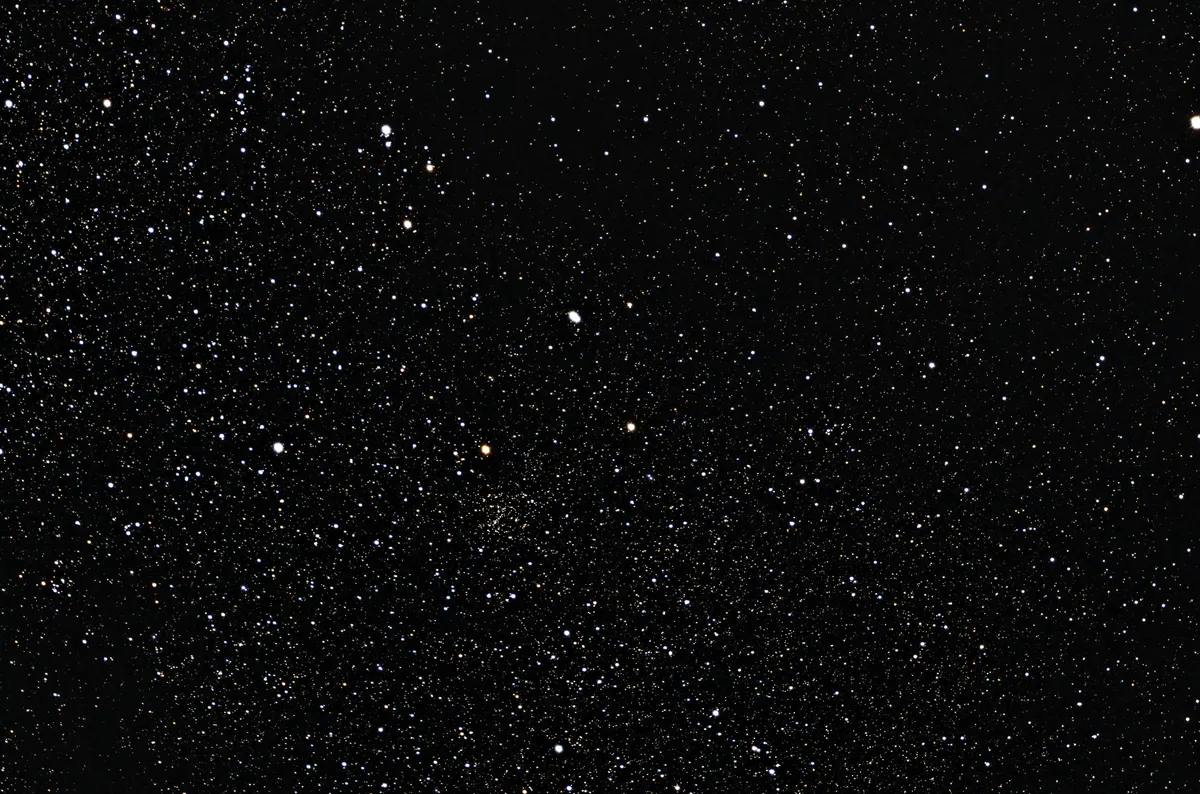
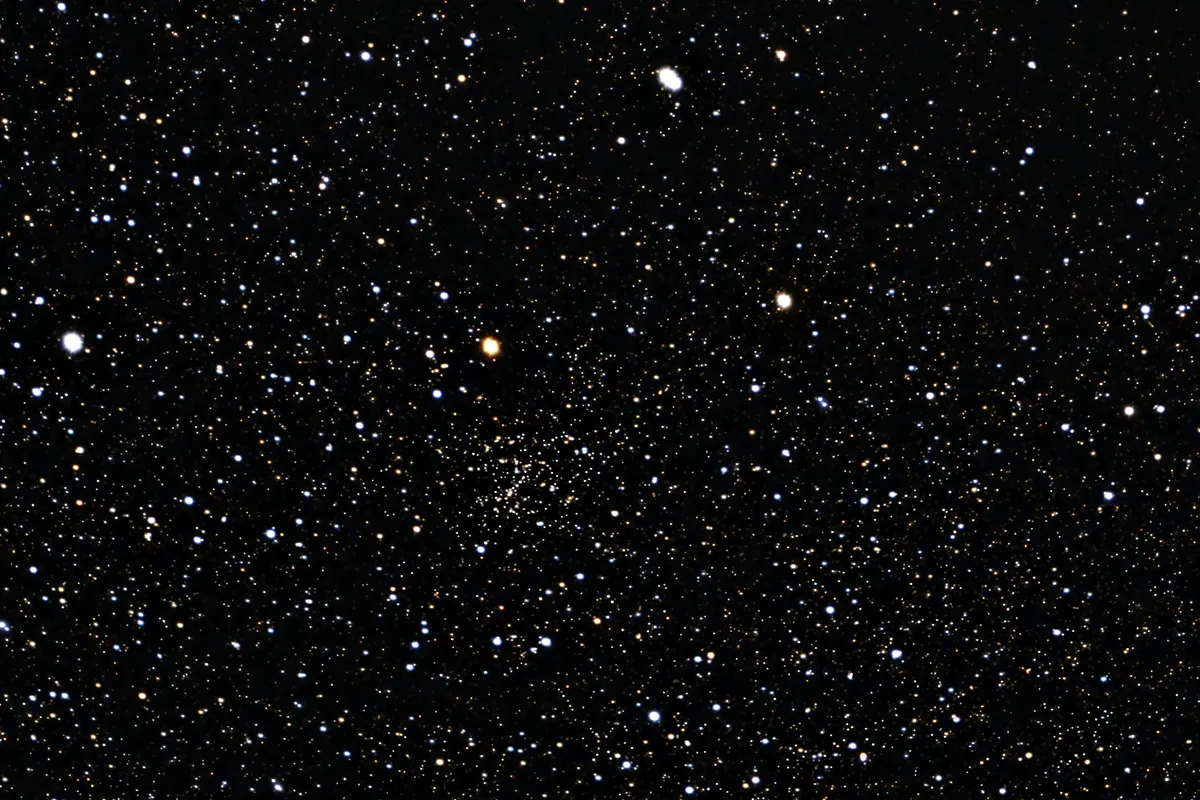
sample-sessions: crop the Whirlpool and Sagittarius pictures (cards say so)
Both are small or sparse in the wide frame at card size. The pictures are crops of the same default
preview at its own resolution; the Zenodo preview files stay the full frame.

diff --git a/docs/sample-sessions.html b/docs/sample-sessions.html
@@ -776,9 +776,9 @@
     <p class="intro measure">Each download is one zip of about half a gigabyte (6.0&nbsp;GB for all twelve). Each is stored on Zenodo, which gives it a permanent address (a DOI) and keeps it available, separately from this website. The pictures are what OriginStack 2.21 produced from that session with the default settings.</p>
     <div class="gallery-grid">
       <figure id="face-on-spiral-galaxy-m51-whirlpool">
-        <a href="img/samples/face-on-spiral-galaxy-m51-whirlpool.jpg"><picture><source type="image/webp" srcset="img/samples/face-on-spiral-galaxy-m51-whirlpool-800.webp 800w, img/samples/face-on-spiral-galaxy-m51-whirlpool-1200.webp 1200w" sizes="(min-width: 900px) 420px, calc(100vw - 2 * clamp(20px, 5vw, 72px))"><img src="img/samples/face-on-spiral-galaxy-m51-whirlpool.jpg" width="1200" height="802" loading="lazy" alt="Whirlpool Galaxy (M51) as OriginStack stacks this session"></picture></a>
+        <a href="img/samples/face-on-spiral-galaxy-m51-whirlpool.jpg"><picture><source type="image/webp" srcset="img/samples/face-on-spiral-galaxy-m51-whirlpool-800.webp 800w, img/samples/face-on-spiral-galaxy-m51-whirlpool-1200.webp 1200w" sizes="(min-width: 900px) 420px, calc(100vw - 2 * clamp(20px, 5vw, 72px))"><img src="img/samples/face-on-spiral-galaxy-m51-whirlpool.jpg" width="1200" height="800" loading="lazy" alt="Whirlpool Galaxy (M51) as OriginStack stacks this session"></picture></a>
         <figcaption><h3>Whirlpool Galaxy (M51)</h3>
-          <p class="data">Face-on spiral galaxy &middot; 45 &times; 20 s, 15 minutes &middot; captured 2026-07-01</p>
+          <p class="data">Face-on spiral galaxy &middot; 45 &times; 20 s, 15 minutes &middot; captured 2026-07-01 &middot; picture cropped to the galaxies</p>
           <p>The standard test: a face-on galaxy in a wide, star-filled field.</p>
           
           <p><a data-goatcounter-click="sample-session-01" class="btn primary" href="https://doi.org/10.5281/zenodo.23895652">Download from Zenodo (597 MB)</a></p>
@@ -875,9 +875,9 @@
             <p class="data">SHA-256 of the zip: <code>8a026e040ea72c9a716053a62bd66aa924c4b21f7c6bc6e685d6115d17783260</code></p>
             <p class="data"><code>python originstack.py -d &quot;09_open_cluster_M37&quot; -o stack.fits</code></p></details></figcaption></figure>
       <figure id="wide-field-sagittarius-star-cloud">
-        <a href="img/samples/wide-field-sagittarius-star-cloud.jpg"><picture><source type="image/webp" srcset="img/samples/wide-field-sagittarius-star-cloud-800.webp 800w, img/samples/wide-field-sagittarius-star-cloud-1200.webp 1200w" sizes="(min-width: 900px) 420px, calc(100vw - 2 * clamp(20px, 5vw, 72px))"><img src="img/samples/wide-field-sagittarius-star-cloud.jpg" width="1200" height="794" loading="lazy" alt="Sagittarius Star Cloud (M24) as OriginStack stacks this session"></picture></a>
+        <a href="img/samples/wide-field-sagittarius-star-cloud.jpg"><picture><source type="image/webp" srcset="img/samples/wide-field-sagittarius-star-cloud-800.webp 800w, img/samples/wide-field-sagittarius-star-cloud-1200.webp 1200w" sizes="(min-width: 900px) 420px, calc(100vw - 2 * clamp(20px, 5vw, 72px))"><img src="img/samples/wide-field-sagittarius-star-cloud.jpg" width="1200" height="800" loading="lazy" alt="Sagittarius Star Cloud (M24) as OriginStack stacks this session"></picture></a>
         <figcaption><h3>Sagittarius Star Cloud (M24)</h3>
-          <p class="data">Wide-field Milky Way &middot; 45 &times; 5 s, 4 minutes &middot; captured 2025-09-15</p>
+          <p class="data">Wide-field Milky Way &middot; 45 &times; 5 s, 4 minutes &middot; captured 2025-09-15 &middot; picture cropped to the middle of the field</p>
           <p>A wide star field: lots of stars, almost no empty sky.</p>
           
           <p><a data-goatcounter-click="sample-session-10" class="btn primary" href="https://doi.org/10.5281/zenodo.23896487">Download from Zenodo (538 MB)</a></p>
